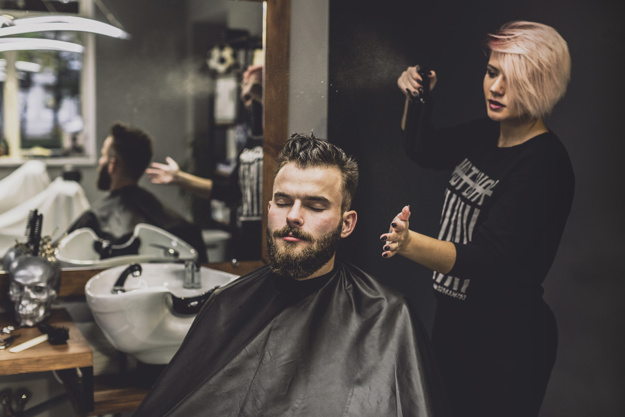
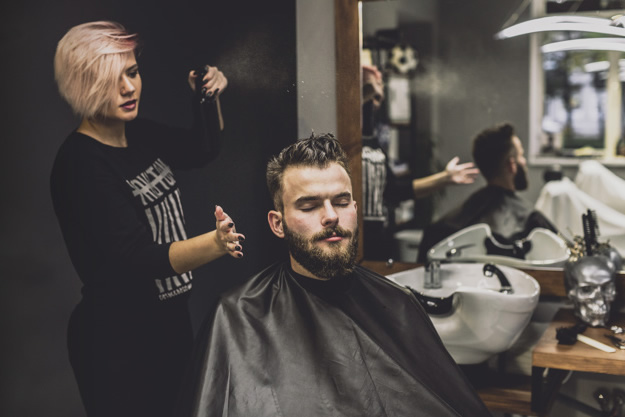
Animated  login logout

diff --git a/src/pages/SignUp/index.tsx b/src/pages/SignUp/index.tsx
@@ -3,7 +3,9 @@ import { FiArrowLeft, FiMail, FiUser, FiLock } from 'react-icons/fi';
 import { FormHandles } from '@unform/core';
 import { Form } from '@unform/web';
 import * as Yup from 'yup';
-import { Link } from 'react-router-dom';
+import { Link, useHistory } from 'react-router-dom';
+import api from '../../services/api';
+import { useToast } from '../../hooks/toast';
 import getValidationErrors from '../../utils/getValidationErrors';
 import logoimg from '../../assets/logo.png';
 import { Container, Content, AnimationContainer, Background } from './styles';
@@ -11,27 +13,51 @@ import { Container, Content, AnimationContainer, Background } from './styles';
 import Input from '../../components/Input';
 import Button from '../../components/Button';
 
+interface SignUpFormData {
+    name: string;
+    email: string;
+    password: string;
+}
 const SignUp: React.FC = () => {
     const formRef = useRef<FormHandles>(null);
-    console.log(formRef);
-    const handleSubmit = useCallback(async (data: object) => {
-        try {
-            formRef.current?.setErrors({});
-            const schema = Yup.object().shape({
-                name: Yup.string().required('Nome obrigatório'),
-                email: Yup.string()
-                    .required('E-mail obrigatório')
-                    .email('Digite um email válido'),
-                password: Yup.string().min(6, 'No mínimo 6 dígitos'),
-            });
-            await schema.validate(data, {
-                abortEarly: false,
-            });
-        } catch (err) {
-            const errors = getValidationErrors(err);
-            formRef.current?.setErrors(errors);
-        }
-    }, []);
+    const { addToast } = useToast();
+    const history = useHistory();
+    const handleSubmit = useCallback(
+        async (data: SignUpFormData) => {
+            try {
+                formRef.current?.setErrors({});
+                const schema = Yup.object().shape({
+                    name: Yup.string().required('Nome obrigatório'),
+                    email: Yup.string()
+                        .required('E-mail obrigatório')
+                        .email('Digite um email válido'),
+                    password: Yup.string().min(6, 'No mínimo 6 dígitos'),
+                });
+                await schema.validate(data, {
+                    abortEarly: false,
+                });
+                await api.post('/users', data);
+                history.push('/');
+                addToast({
+                    type: 'success',
+                    title: 'Cadastro realizado com sucesso!',
+                    description: ' já pode fazer seu logon no GoBarber!',
+                });
+            } catch (err) {
+                if (err instanceof Yup.ValidationError) {
+                    const errors = getValidationErrors(err);
+                    formRef.current?.setErrors(errors);
+                }
+                addToast({
+                    type: 'error',
+                    title: 'Erro no cadastro',
+                    description:
+                        'Ocorreu erro ao fazer o cadastro, tente novamente.',
+                });
+            }
+        },
+        [addToast, history],
+    );
     return (
         <Container>
             <Background />

diff --git a/src/pages/SignIn/index.tsx b/src/pages/SignIn/index.tsx
@@ -3,7 +3,8 @@ import { FiLogIn, FiMail, FiLock } from 'react-icons/fi';
 import { FormHandles } from '@unform/core';
 import { Form } from '@unform/web';
 import * as Yup from 'yup';
-import { Link } from 'react-router-dom';
+import { Link, useHistory } from 'react-router-dom';
+
 import { useAuth } from '../../hooks/auth';
 import { useToast } from '../../hooks/toast';
 import getValidationErrors from '../../utils/getValidationErrors';
@@ -17,10 +18,12 @@ interface SignInFormData {
     email: string;
     password: string;
 }
+
 const SignIn: React.FC = () => {
     const formRef = useRef<FormHandles>(null);
     const { signIn } = useAuth();
     const { addToast } = useToast();
+    const history = useHistory();
     const handleSubmit = useCallback(
         async (data: SignInFormData) => {
             try {
@@ -38,6 +41,7 @@ const SignIn: React.FC = () => {
                     email: data.email,
                     password: data.password,
                 });
+                history.push('/dashboard');
             } catch (err) {
                 if (err instanceof Yup.ValidationError) {
                     const errors = getValidationErrors(err);
@@ -51,7 +55,7 @@ const SignIn: React.FC = () => {
                 });
             }
         },
-        [signIn, addToast],
+        [signIn, addToast, history],
     );
 
     return (

diff --git a/src/pages/SignUp/styles.ts b/src/pages/SignUp/styles.ts
@@ -1,6 +1,6 @@
 import styled, { keyframes } from 'styled-components';
 import { shade } from 'polished';
-import signupBackground from '../../assets/BARBER1.jpg';
+import signupBackground from '../../assets/logout.jpg';
 
 export const Container = styled.div`
     height: 100vh;

diff --git a/src/pages/SignIn/styles.ts b/src/pages/SignIn/styles.ts
@@ -1,6 +1,6 @@
 import styled, { keyframes } from 'styled-components';
 import { shade } from 'polished';
-import signinBackground from '../../assets/signIn.jpg';
+import signinBackground from '../../assets/login.jpg';
 
 export const Container = styled.div`
     height: 100vh;
